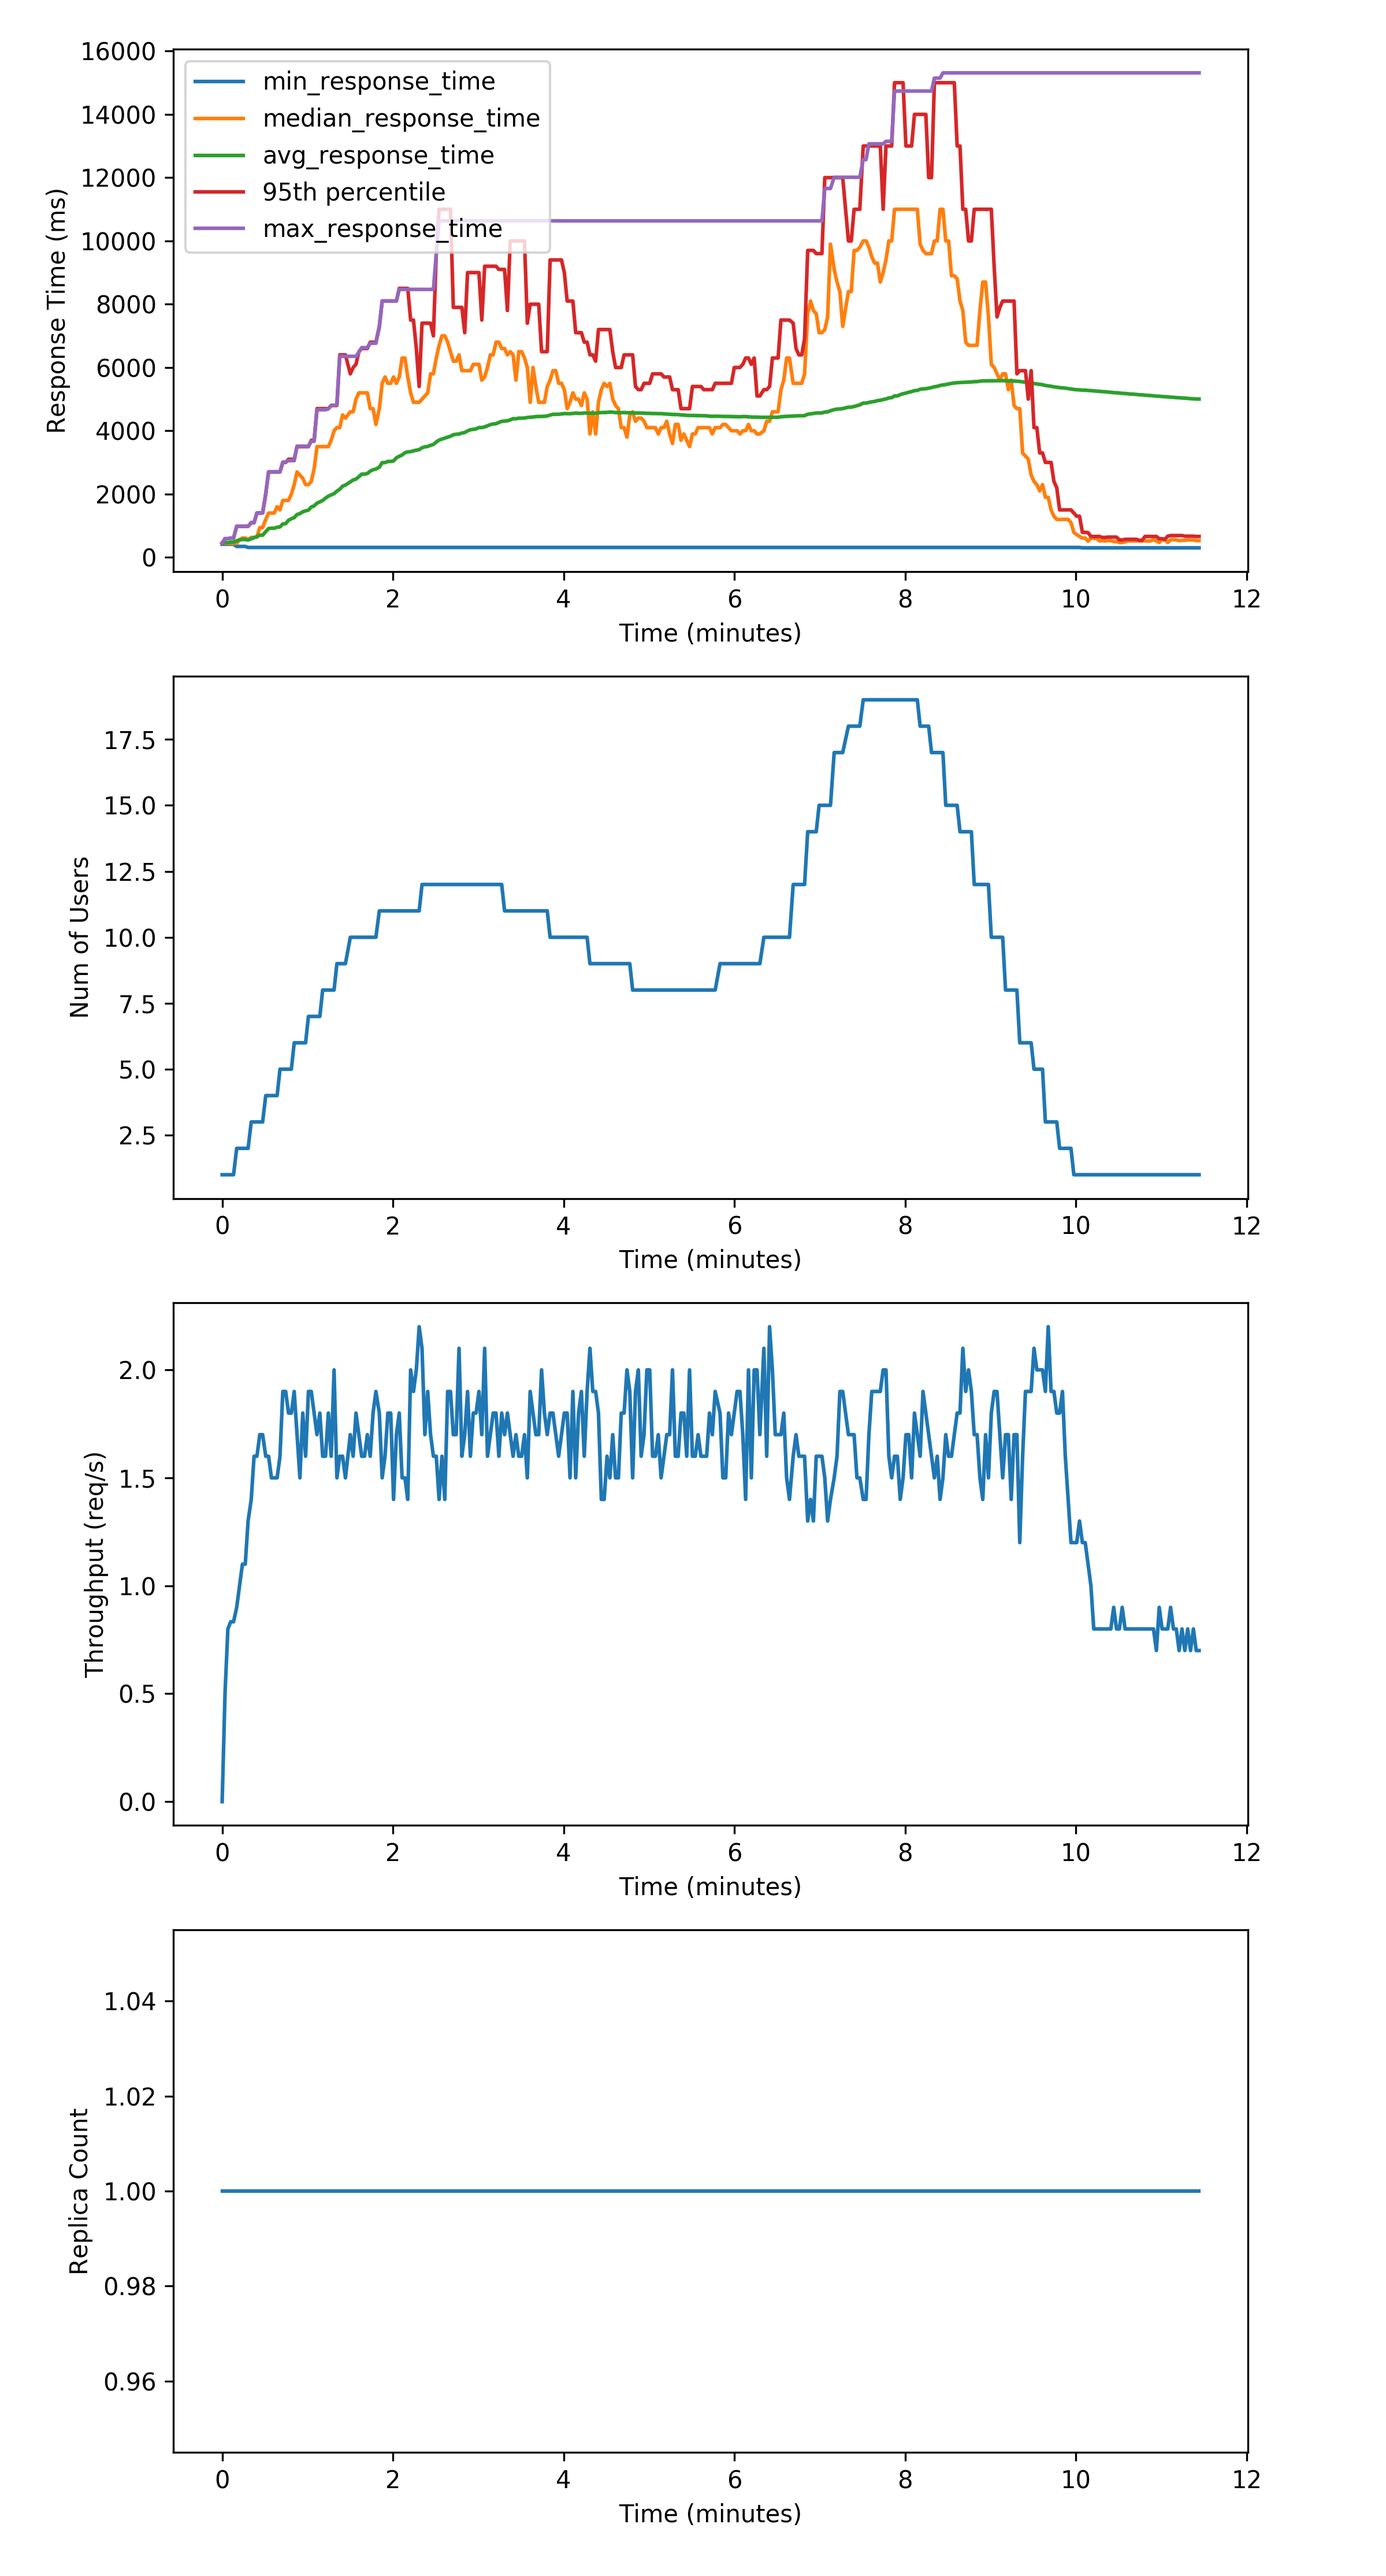
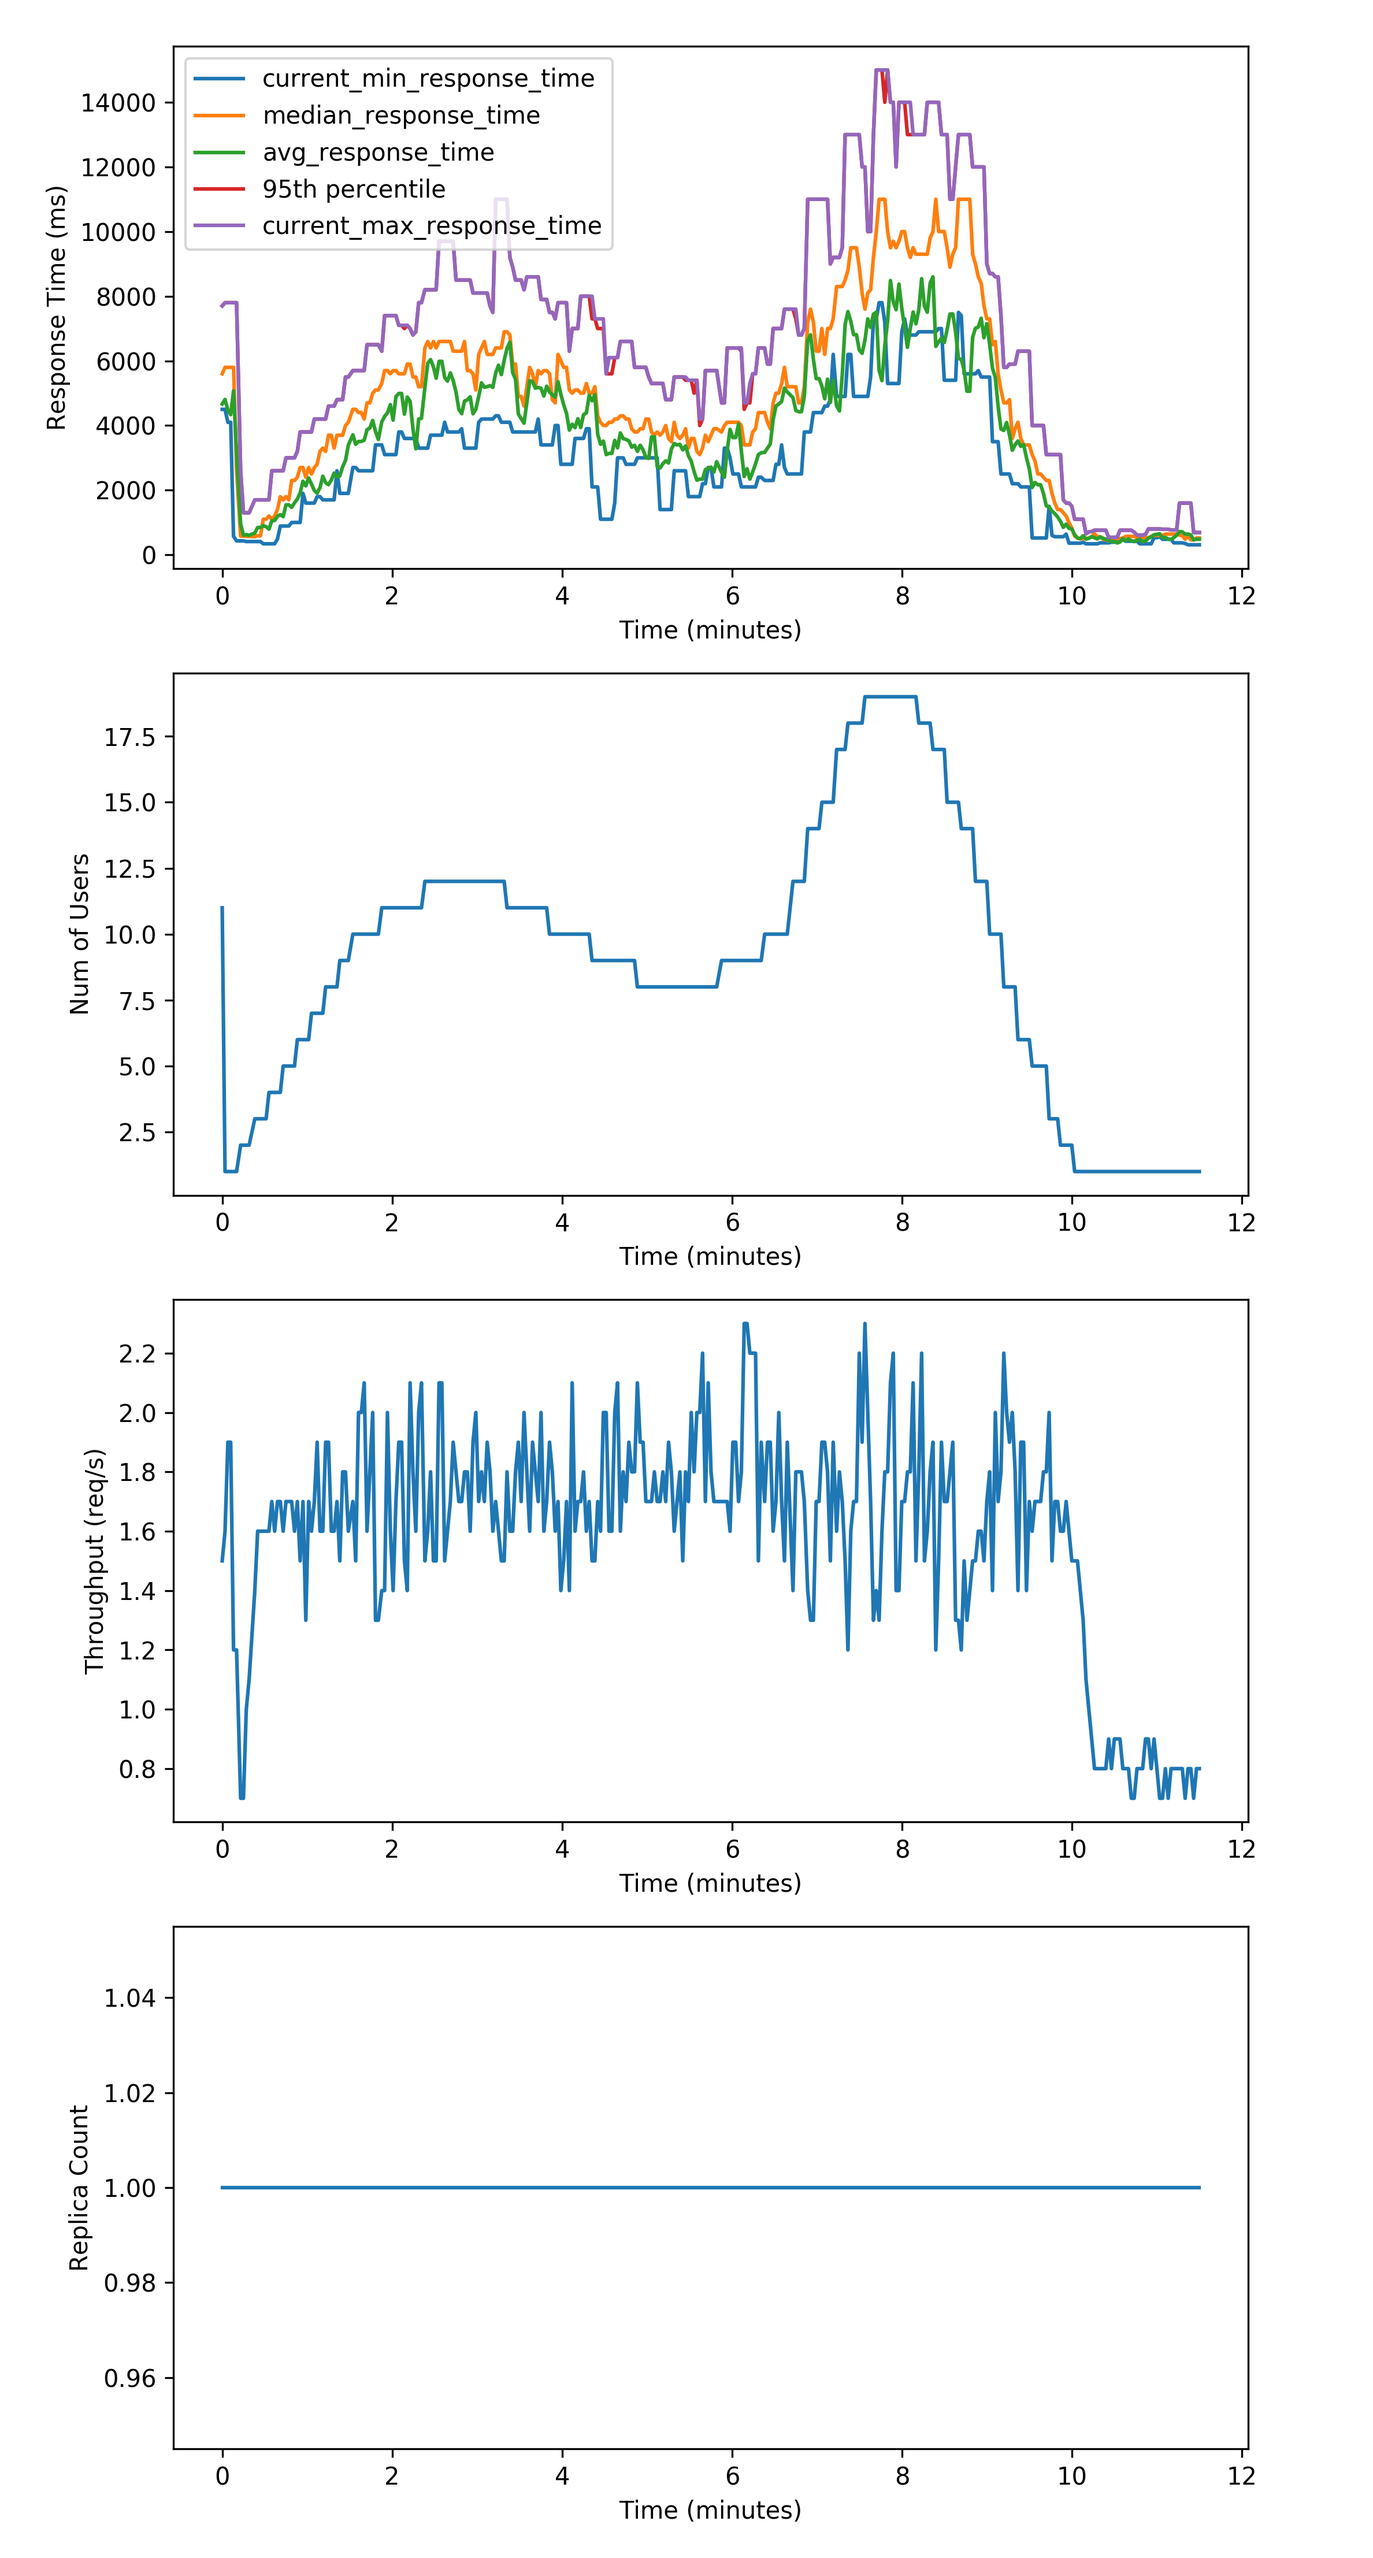
added ddsl locust

diff --git a/sequence.py b/sequence.py
@@ -61,7 +61,9 @@ for i in tqdm(range(len(user_sequence))):
     lt.change_count(user_count)
     
     # decrement the loop processing time to have an accurate time for the loop
-    time.sleep(loop_time_in_secs - loop_timer.toc())
+    sleep_time = loop_time_in_secs - loop_timer.toc()
+    if sleep_time > 0:
+        time.sleep(sleep_time)
     
     loop_timer.tic()
     
@@ -90,7 +92,7 @@ sla_max_avg = 800
 sla_max_median = 800
 
 sla_95_count = sum(res['current_response_time_percentile_95'] > sla_max_95)
-sla_avg_count = sum(res['avg_response_time'] > sla_max_avg)
+sla_avg_count = sum(res['current_response_time_average'] > sla_max_avg)
 sla_med_count = sum(res['current_response_time_percentile_50'] > sla_max_median)
 avg_replica = np.mean(res['custom_replica'])
 
@@ -107,11 +109,11 @@ import matplotlib.pyplot as plt
 
 plt.figure(figsize=(8,18))
 plt.subplot(411)
-plt.plot(res['elapsed_min'], res['min_response_time'], label='min_response_time')
+plt.plot(res['elapsed_min'], res['current_min_response_time'], label='current_min_response_time')
 plt.plot(res['elapsed_min'], res['current_response_time_percentile_50'], label='median_response_time')
-plt.plot(res['elapsed_min'], res['avg_response_time'], label='avg_response_time')
+plt.plot(res['elapsed_min'], res['current_response_time_average'], label='avg_response_time')
 plt.plot(res['elapsed_min'], res['current_response_time_percentile_95'], label='95th percentile')
-plt.plot(res['elapsed_min'], res['max_response_time'], label='max_response_time')
+plt.plot(res['elapsed_min'], res['current_max_response_time'], label='current_max_response_time')
 
 plt.xlabel('Time (minutes)')
 plt.ylabel('Response Time (ms)')

diff --git a/README.md b/README.md
@@ -44,6 +44,10 @@ Initial steps for accomplishing your project:
     $ git clone https://github.com/nimamahmoudi/ECE422-Proj2-StartKit
     $ cd ECE422-Proj2-StartKit
     $ sudo apt -y install python-pip
+    $ # Make sure locust and locustio is not installed:
+    $ # pip uninstall locust locustio
+    $ # This should only show ddsl_locustio:
+    $ pip freeze | grep locust
     $ pip install requirements.txt
     ```
 
@@ -51,7 +55,7 @@ Initial steps for accomplishing your project:
     response would think for one second, and then send another request. This cycle goes on as long as the client 
     program is running.
     ```bash
-    $ locust --host=http://MASTER_NODE_IP:8000 -f locustfile.py
+    $ ddsl_locust --host=http://MASTER_NODE_IP:8000 -f locustfile.py
     ```
     1. You can open up a browser and go to `http://CLIENT_VM_IP:8089` to see the `locust` web interface. Set both the number of users and hatch rate to 1 and
        press the `Start Swarming` button.
@@ -73,6 +77,24 @@ Initial steps for accomplishing your project:
     Note that you have to update the function `get_docker_replica_count()` to get the current replica count according to your structure and application name.
     ```bash
     $ python sequence.py
+    ```
+
+    To use the docker python sdk and the `get_docker_replica_count()` function provided, you can use `docker-machine` to connect the client VM to the swarm manager VM:
+    ```bash
+    $ # install docker-machine
+    $ base=https://github.com/docker/machine/releases/download/v0.16.0 &&
+        curl -L $base/docker-machine-$(uname -s)-$(uname -m) >/tmp/docker-machine &&
+        sudo install /tmp/docker-machine /usr/local/bin/docker-machine
+    $ docker-machine create \
+        --driver generic \
+        --generic-ip-address=SWARM_MASTER_IP \
+        --generic-ssh-key ~/.ssh/id_rsa \
+        --generic-ssh-user ubuntu \
+        savi-ds
+    $ eval $(docker-machine env savi-ds)
+    $ # check that you have connected to the remote docker machine
+    $ # This should be executed on the remote VM
+    $ docker ps
     ```
 
     The workload used in this sequence is generated using the following function:
